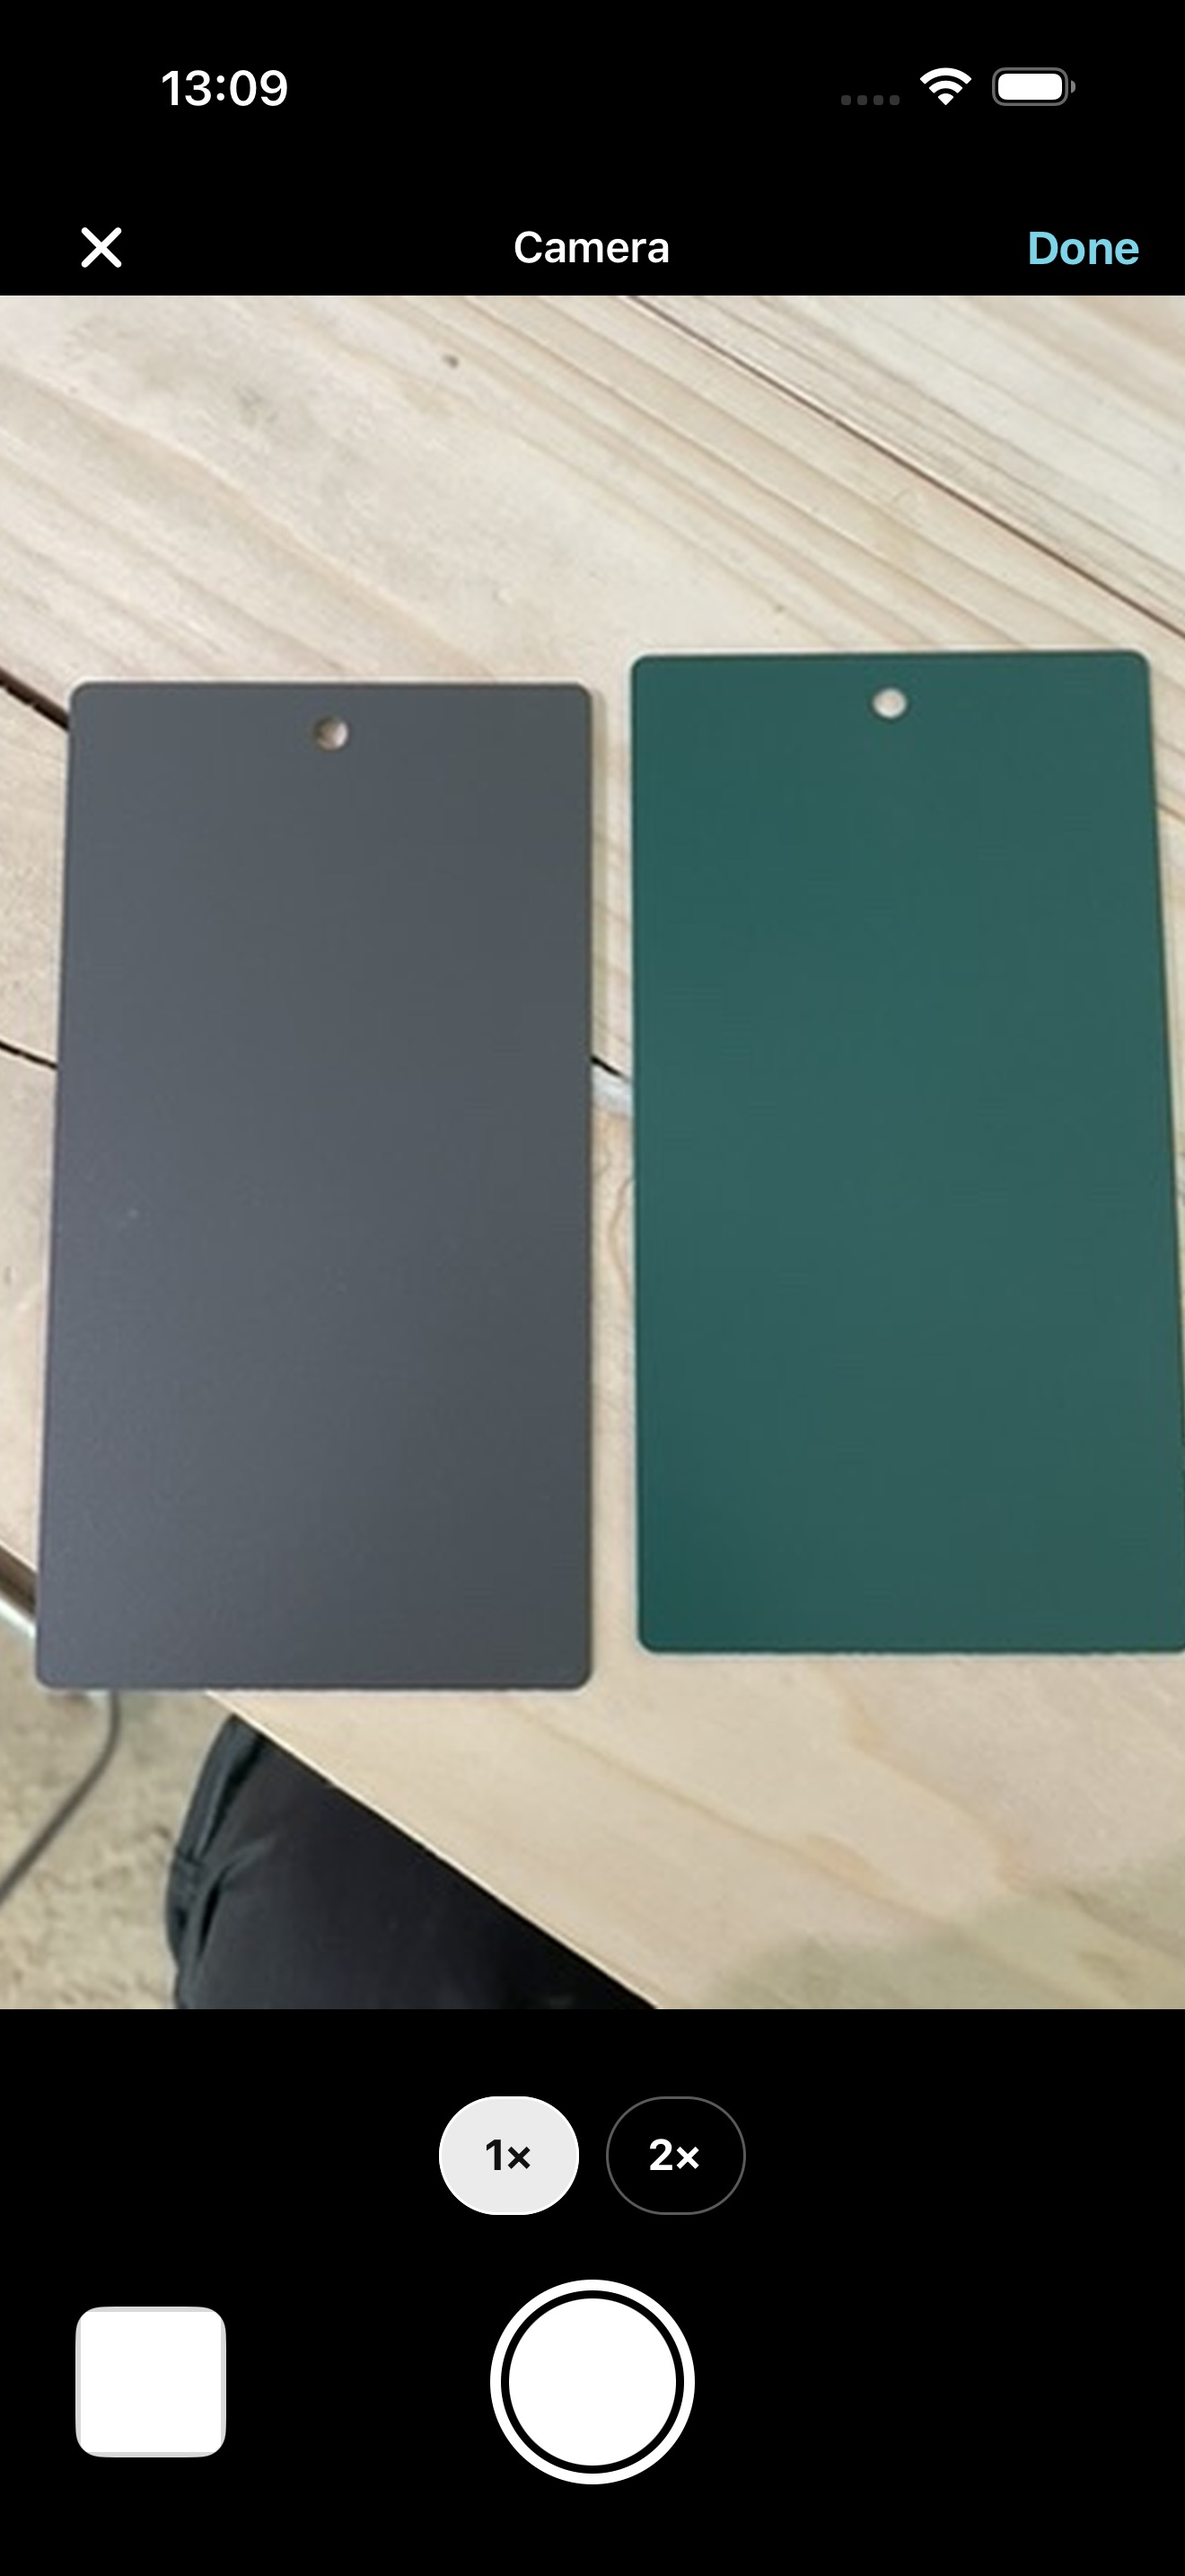
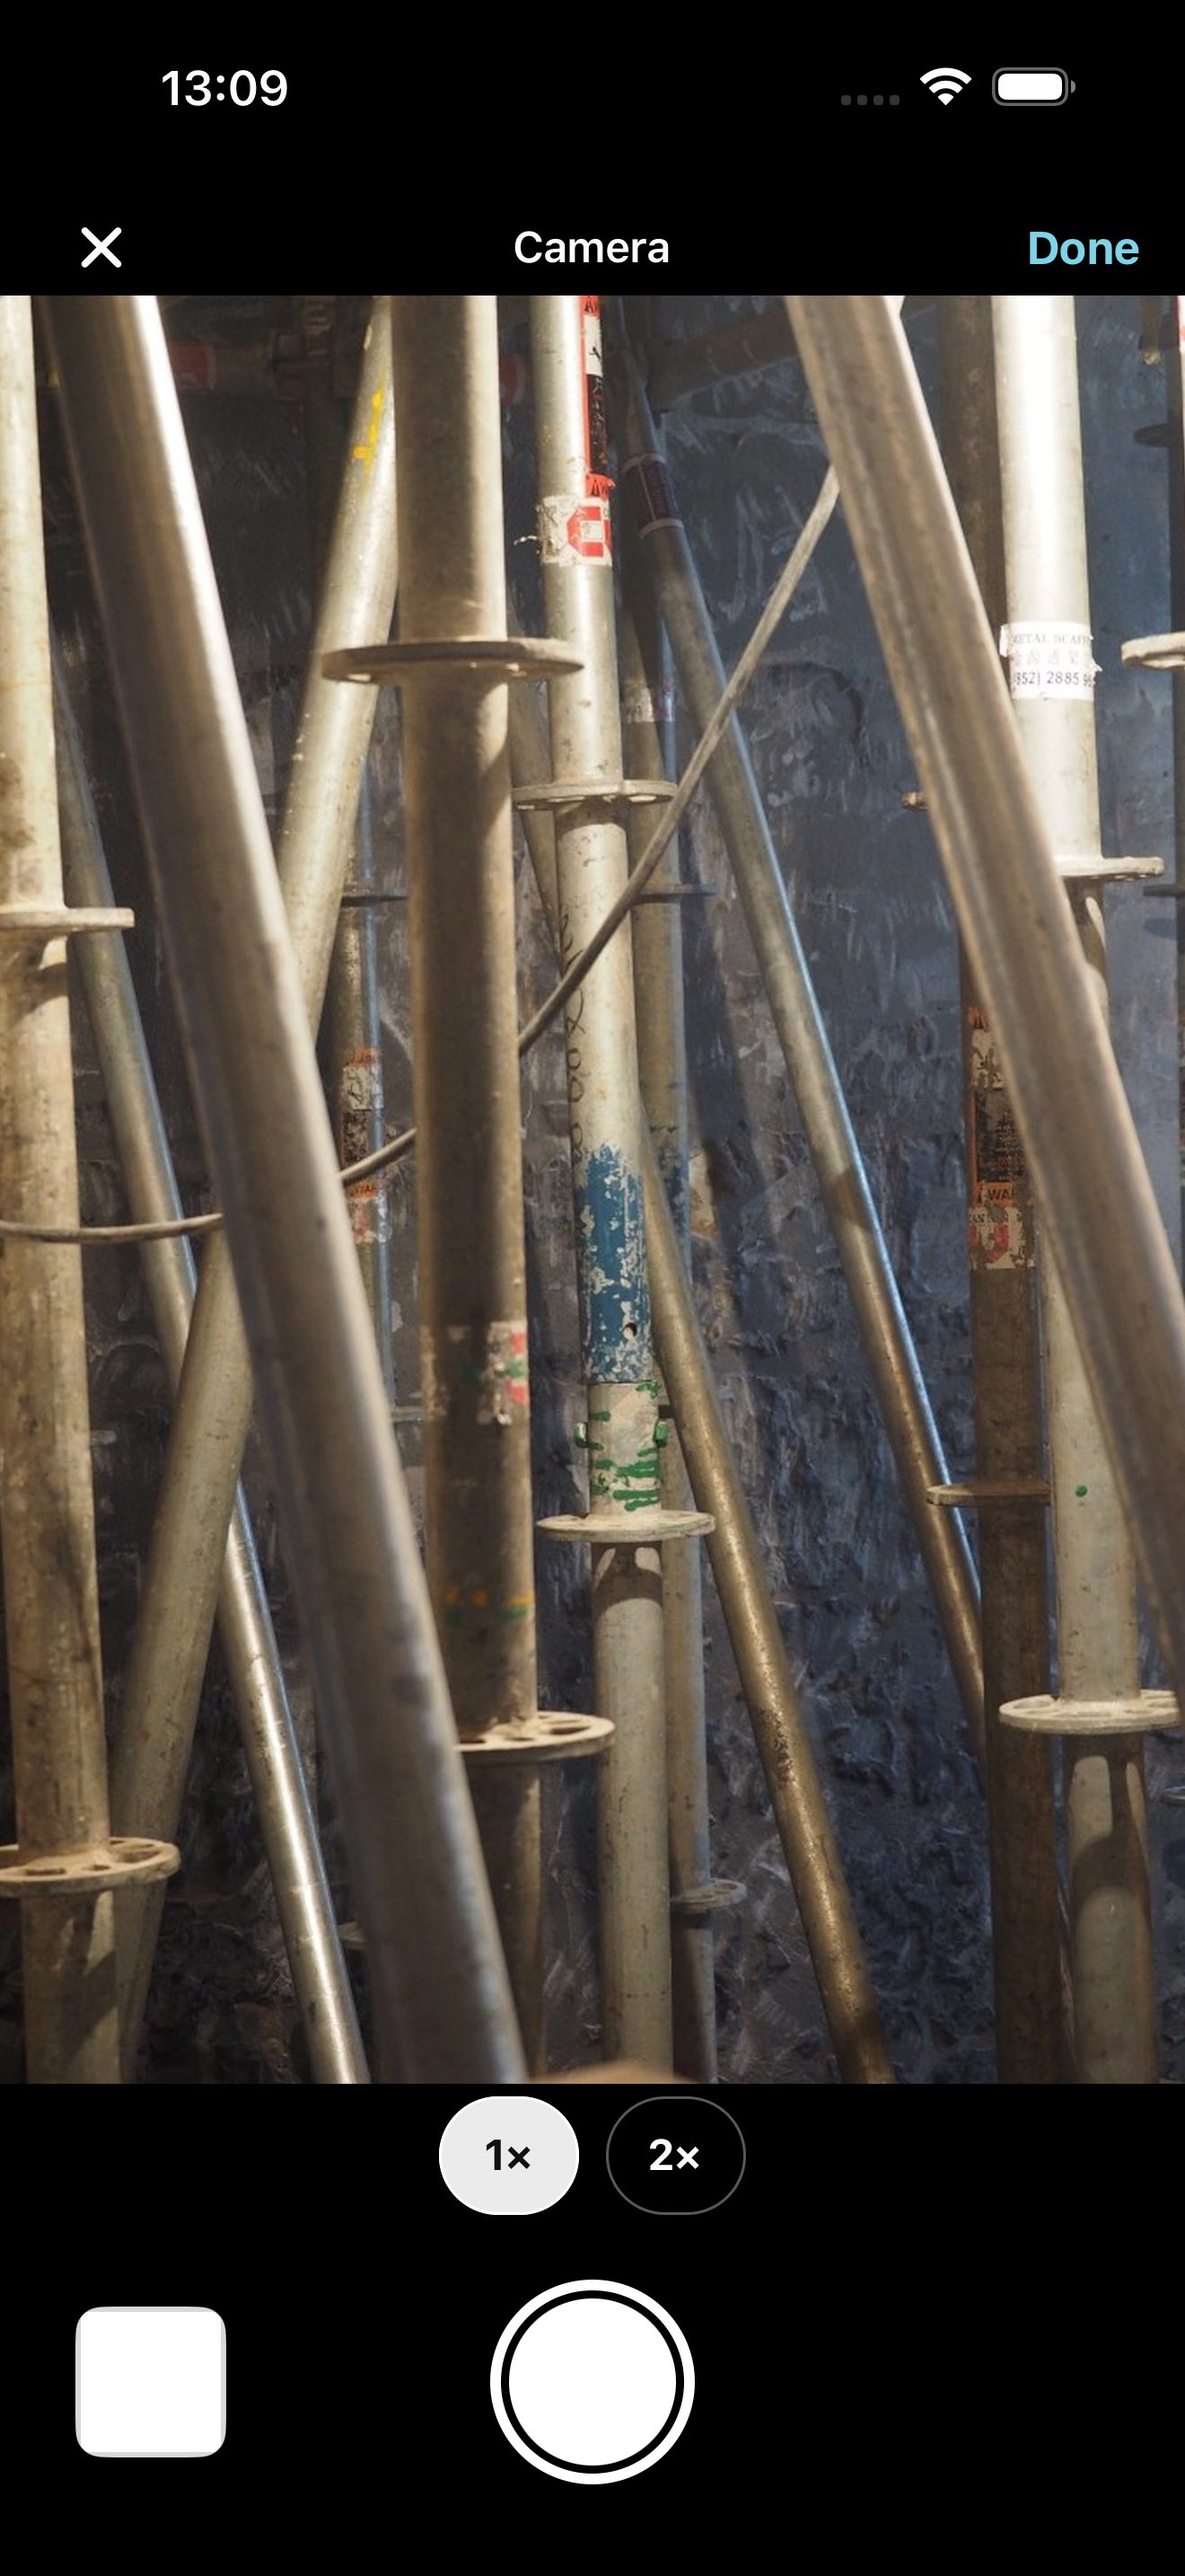
docs(gtm): put the site scaffolding shot in the landing camera mock
Replace the colour-swatch viewfinder with the construction photo on the
public landing and the 6.7" store camera frame.

diff --git a/docs/index.html b/docs/index.html
@@ -10,7 +10,7 @@
   <link rel="preconnect" href="https://fonts.googleapis.com" />
   <link rel="preconnect" href="https://fonts.gstatic.com" crossorigin />
   <link href="https://fonts.googleapis.com/css2?family=Inter:wght@400;500;600;700&display=swap" rel="stylesheet" />
-  <link rel="stylesheet" href="assets/marketing/landing.css?v=8" />
+  <link rel="stylesheet" href="assets/marketing/landing.css?v=9" />
 </head>
 <body>
   <header class="hero" id="top">
@@ -129,7 +129,7 @@
           <p>Snap the condition, title it clearly, assign the right trade, and send without leaving the field.</p>
         </div>
         <div class="phone-sm">
-          <img src="assets/marketing/use-create.png" alt="Create New Task screen" width="260" height="587" />
+          <img src="assets/marketing/use-create.png?v=2" alt="Taskr camera capturing scaffolding on site" width="260" height="587" />
         </div>
       </article>
 

diff --git a/docs/assets/store/iphone-67/README.md b/docs/assets/store/iphone-67/README.md
@@ -5,7 +5,7 @@ Apple size: **1320 × 2868** JPEG. Upload in this order to the **1.1.3** version
 | File | Slot | Honest? |
 |------|------|---------|
 | `01-activity.jpg` | Activity / this week’s work | Yes — Joe on Insite Office |
-| `02-camera.jpg` | Capture | **Composite** — real camera chrome + a pasted site photo (sim viewfinder is black) |
+| `02-camera.jpg` | Capture | **Composite** — real camera chrome + site scaffolding photo (sim viewfinder is black) |
 | `03-tasks.jpg` | Task list with photos | Yes — upscaled from the same 6.7" crop |
 | `04-task-thread.jpg` | Task thread with proof | Yes — scaffolding thread |
 
